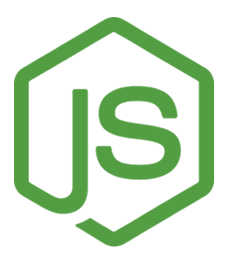
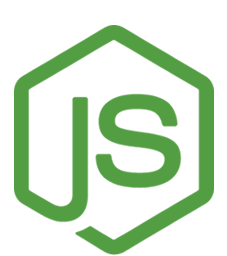
Alterações nos icones e adição de novos

diff --git a/src/components/technologies/index.jsx b/src/components/technologies/index.jsx
@@ -1,0 +1,34 @@
+import '../../global/style/style.scss';
+import iconPhp from '../../global/img/php.png';
+import iconJs from '../../global/img/js.png';
+import iconC from '../../global/img/c.png';
+import iconCPP from '../../global/img/cpp.png';
+import iconHtml from '../../global/img/html.png';
+import iconCss from '../../global/img/css.png';
+import iconNode from '../../global/img/nodejs.png';
+import iconReact from '../../global/img/reactjs.png';
+import iconMysql from '../../global/img/mysql.png';
+import iconGit from '../../global/img/git.png';
+import iconFigma from '../../global/img/figma.png';
+
+export default function Technologies() {
+    return (
+        <div className="component-container">
+            <hr />
+            <h2 className="component-title">TECNOLOGIAS</h2>
+            <div className="technologies-container">
+                <img src={iconC} width="50" title="C"/>
+                <img src={iconCPP} width="50" title="C++" />
+                <img src={iconHtml} width="50" title="HTML" />
+                <img src={iconCss} width="50" title="CSS" />
+                <img src={iconPhp} width="50" title="PHP"/>
+                <img src={iconJs} width="50" title="JavaScript"/>
+                <img src={iconNode} width="50" title="NodeJs"/>
+                <img src={iconReact} width="50" title="ReactJs"/>
+                <img src={iconMysql} width="50" title="MySQL"/>
+                <img src={iconGit} width="50" title="Git" />
+                <img src={iconFigma} width="50" title="Figma"/>
+            </div>
+        </div>
+    )
+}

diff --git a/src/pages/home/index.jsx b/src/pages/home/index.jsx
@@ -3,9 +3,9 @@ import Header from '../../components/header';
 import Footer from '../../components/footer';
 import Social from '../../components/social';
 import Presentation from '../../components/presentation';
-import Skills from '../../components/skills';
+import Technologies from '../../components/technologies';
 import Training from '../../components/training';
-import Projects from '../../components/projects';
+import AllProjects from '../../components/allProjects';
 import { useState } from 'react';
 
 function Home() {
@@ -39,13 +39,13 @@ function Home() {
         <div className="home-components">
           {viewProjects ?
             <div className="components-list">
-              <Projects />
+              <AllProjects />
               <button onClick={handleHome}>Voltar</button>
             </div>
             :
             <div className="components-list">
               <Presentation />
-              <Skills />
+              <Technologies />
               <Training />
               
               <button onClick={handleProjects}>Ver todos</button>

diff --git a/src/components/allProjects/index.jsx b/src/components/allProjects/index.jsx
@@ -1,7 +1,7 @@
 import { useEffect, useState } from 'react';
 import '../../global/style/style.scss';
 
-export default function Projects() {
+export default function allProjects() {
     const [itemsApi, setItemsApi] = useState([]);
 
     useEffect(() => {
@@ -56,7 +56,7 @@ export default function Projects() {
 
                                 <div className="info-project" style={{ marginTop: "2rem" }}>
                                     <a href={item.html_url} className="view-project" target="_blank">
-                                        <img src={iconGh} width="20" style={{ marginLeft: "0.5rem" }} />ACESSAR
+                                        <img src="" width="20" style={{ marginLeft: "0.5rem" }} />ACESSAR
                                     </a>
                                 </div>
 

diff --git a/src/global/style/style.scss b/src/global/style/style.scss
@@ -21,12 +21,16 @@ hr {
     text-align: justify;
 }
 
-.skills-container {
+.technologies-container {
     padding: 1rem;
-    width: 50%;
+    width: 80%;
 }
 
-.skills-container img:hover {
+.technologies-container img {
+    padding: 0.5rem;
+}
+
+.technologies-container img:hover {
     cursor: pointer;
     -webkit-transform:scale(1.1);
     transform:scale(1.1);

diff --git a/src/components/footer/index.jsx b/src/components/footer/index.jsx
@@ -4,7 +4,7 @@ export default function Footer() {
     return (
         <footer>
             <div className="footer">
-                <span>Created by Mateus Henrique</span>
+                <span>Created by ©Mateus Henrique</span>
             </div>
         </footer>
     )
